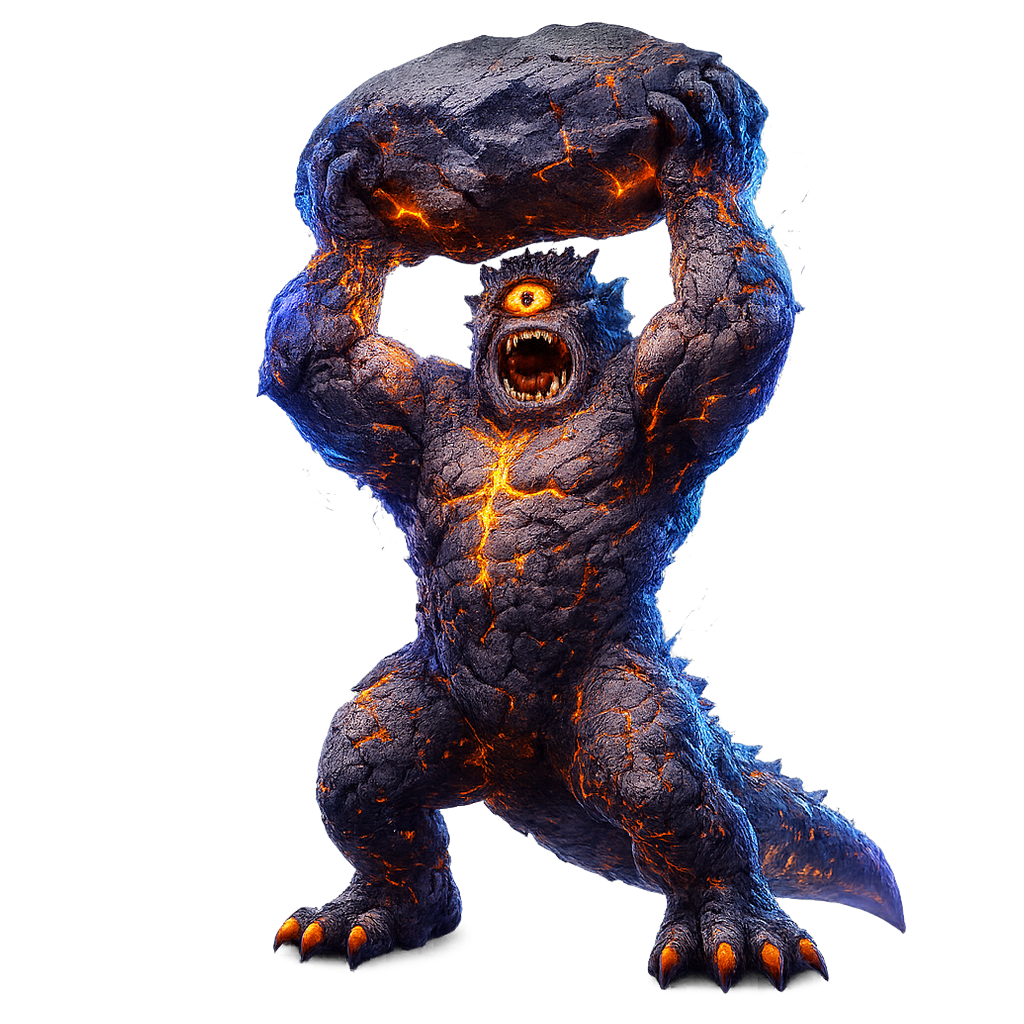
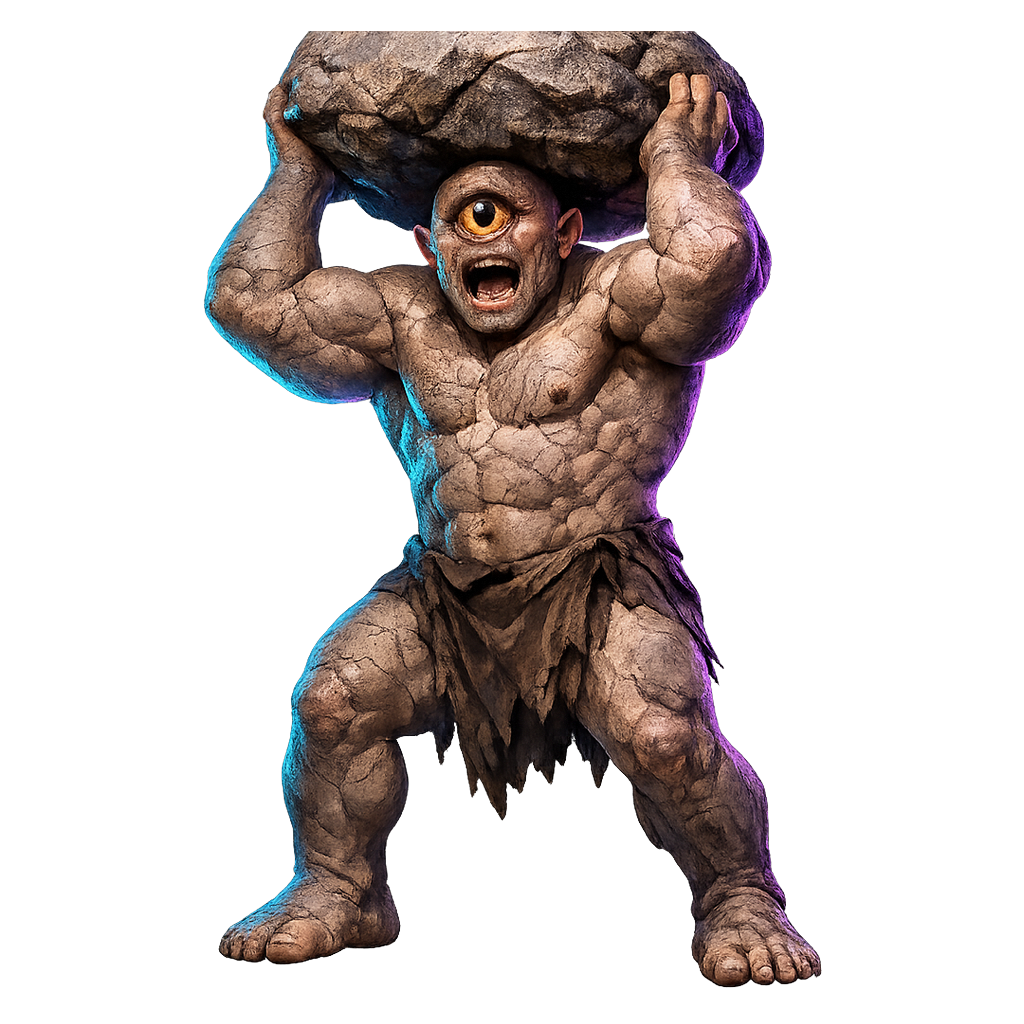
Portrait anatomy QA: all 160 pass zoom-verified sweep
10 defects found and fixed (5-legged stegosaurus confirmed via leg-
region zoom pass, two-headed sarcosuchus, ghost-head dire-wolf and
kitsune, bust-only leviathan/mosasaurus, 4-eyed opabinia, 4-claw
therizinosaurus, serpent-fused unicorn, kaiju cyclops). Escalating
regen loop, no reference images, no slug shipping in a known-fail
state.

diff --git a/scripts/qa_portraits.py b/scripts/qa_portraits.py
@@ -1,0 +1,154 @@
+#!/usr/bin/env python3
+"""Portrait QA regeneration pass (2026-08-08).
+
+Same pattern as fix_portraits.py: PORTRAIT_STYLE + the creature's visual_hint +
+an explicit anatomical spec that names exact counts. NEVER passes a reference
+image — the shared dragon style-reference is what bled dragon anatomy into
+several earlier renders.
+
+Usage:
+    python scripts/qa_portraits.py 1 stegosaurus therizinosaurus ...
+    python scripts/qa_portraits.py 2 stegosaurus            # escalated wording
+    python scripts/qa_portraits.py 3 --raw-only stegosaurus # render, don't ship
+
+Attempt >= 2 appends ESCALATIONS[slug][attempt], which names the defect the
+previous attempt actually had.
+"""
+import concurrent.futures as cf
+import json
+import sys
+import time
+from pathlib import Path
+
+sys.path.insert(0, str(Path(__file__).parent))
+from assetlib import PORTRAIT_STYLE, ROOT, finalize, generate
+
+CREATURES = {x["slug"]: x for x in
+             json.loads((ROOT / "data" / "source_creatures.json").read_text())}
+
+FRAME = (" The complete creature — head, body, every limb and the whole tail — "
+         "is fully inside the frame with generous empty margin on all four "
+         "sides; nothing is cropped, cut off, or touching any edge. Nothing "
+         "else is in the picture: no second animal, no background creature, no "
+         "silhouettes, no ghost shapes, no props fused to the body. "
+         "Any open mouth shows teeth and a tongue inside, never a hollow void. "
+         "Transparent background.")
+
+REQS = {
+    "stegosaurus":
+        "Count the legs carefully: EXACTLY FOUR legs and no more — two short "
+        "front legs under the shoulders and two tall back legs under the hips. "
+        "There is no fifth leg and nothing leg-like under the middle of the "
+        "belly. Exactly ONE head, ONE neck and ONE tail; the tail ends in four "
+        "thagomizer spikes. Two alternating rows of broad diamond back plates.",
+    "therizinosaurus":
+        "Each hand bears EXACTLY THREE enormous scythe-like claws — three on "
+        "the left hand and three on the right hand, six claws in total across "
+        "the whole animal. Do not draw a fourth claw on either hand. "
+        "Pot-bellied shaggy feathered dinosaur, long neck, small beaked head, "
+        "exactly two legs and one tail.",
+    "sarcosuchus":
+        "EXACTLY ONE head on one neck. A single armoured crocodile skull with "
+        "one pair of eyes and one pair of jaws — there is no second head, no "
+        "extra snout and no smaller crocodile anywhere in the picture. Four "
+        "legs and one long armoured tail, whole body on a sunlit sandy bank.",
+    "opabinia":
+        "EXACTLY FIVE stalked eyes standing up on top of the head — count them: "
+        "five mushroom-shaped eye stalks, not four. One long flexible clawed "
+        "proboscis reaching forward from the front of the head. Small "
+        "amber-and-teal segmented swimmer with a row of side flaps and a "
+        "fan-shaped tail, shown whole from the side.",
+    "cyclops":
+        "A giant HUMANOID: bare sun-cracked grey-brown human-like skin, two "
+        "arms, two legs, a single large amber eye in the middle of the "
+        "forehead. Absolutely NO TAIL of any kind, no scales, no reptile or "
+        "lizard features, no lava, no fire, no fins, no spines. He is a "
+        "muscular one-eyed man-shaped giant hefting a boulder, not a monster "
+        "or a kaiju.",
+    "dire-wolf":
+        "ONE single wolf alone. Exactly one head, four legs and one bushy "
+        "tail. There are NO other wolves — no pack, no companions, no dark "
+        "shapes, silhouettes or ghost heads behind or around it. Smoky "
+        "grey-brown coat with a heavy ruff, breath steaming.",
+    "kitsune":
+        "ONE snow-white fox with EXACTLY ONE HEAD and nine tails fanned behind "
+        "it. There are absolutely NO extra fox heads, no spirit foxes, no "
+        "ghostly duplicates and no floating faces anywhere in the picture — "
+        "one animal only. Four legs. Standing side-on in full view, the nine "
+        "pale-blue glowing tails spread wide behind it.",
+    "unicorn":
+        "A pearl-white horse with four legs, one flowing tail, one flowing "
+        "mane and a single iridescent spiral horn. Nothing else is attached to "
+        "it or near it: no serpent, no dragon, no vines, no green scaled "
+        "shape, no creature coiled around its legs. Clean simple hooves.",
+    "leviathan":
+        "Show the WHOLE animal from snout to tail tip at a distance, small in "
+        "the frame — not a close-up bust. A colossal barnacled blue-black "
+        "plated sea beast with a complete visible body: blunt whale-like head, "
+        "long ridged spine, two broad flippers and a full tail that ends in a "
+        "clear tail fluke. It is a giant sea creature, NOT a dragon: no horns, "
+        "no wings, no dragon spikes, no long fanged reptile snout. The entire "
+        "silhouette is solid and readable; no part of it dissolves into water "
+        "or spray.",
+    "mosasaurus":
+        "Show the WHOLE animal side-on from snout to tail tip, small in the "
+        "frame — not a close-up head. A complete marine reptile: long "
+        "crocodile-like jaws, streamlined body, four paddle flippers and a "
+        "full tail ending in a two-lobed tail fin. Deep indigo back fading to "
+        "a silver belly. The whole body is solid and opaque; nothing fades "
+        "out, dissolves or disappears into water.",
+}
+
+ESCALATIONS = {  # {slug: {attempt: "..."}} — names the defect the last try had
+    "opabinia": {
+        2: "The previous attempt drew only FOUR eye stalks. That is wrong. "
+           "Count them out as you draw: one, two, three, four, FIVE — five "
+           "separate ball-tipped eye stalks rising in a row from the top of "
+           "the head, so a viewer can count five of them.",
+        3: "Two previous attempts drew only four eye stalks. Draw FIVE eye "
+           "stalks: a central one flanked by two on the left and two on the "
+           "right. Five in total, clearly separated, none hidden or merged.",
+    },
+}
+
+
+def build_prompt(slug: str, attempt: int) -> str:
+    c = CREATURES[slug]
+    esc = ESCALATIONS.get(slug, {}).get(attempt, "")
+    return (PORTRAIT_STYLE
+            + "Creature: " + c["name"] + ". " + c["visual_hint"] + ". "
+            + "CRITICAL anatomical requirements: " + REQS[slug] + " "
+            + (esc + " " if esc else "")
+            + FRAME)
+
+
+def run(slug: str, attempt: int, ship: bool) -> str:
+    prompt = build_prompt(slug, attempt)
+    p = generate(prompt, f"part_{slug}_qa{attempt}", size="1024x1024",
+                 transparent=True)
+    if ship:
+        finalize(p, f"parts/{slug}", 1024, 1024, margin=0.06)
+        return f"{slug} (shipped, attempt {attempt})"
+    return f"{slug} (raw only, attempt {attempt}) -> {p}"
+
+
+def main() -> int:
+    args = [a for a in sys.argv[1:]]
+    ship = "--raw-only" not in args
+    args = [a for a in args if a != "--raw-only"]
+    attempt = int(args[0])
+    slugs = args[1:] or sorted(REQS)
+    t0 = time.time()
+    with cf.ThreadPoolExecutor(max_workers=5) as ex:
+        futs = {ex.submit(run, s, attempt, ship): s for s in slugs}
+        for f in cf.as_completed(futs):
+            try:
+                print("OK  ", f.result())
+            except Exception as e:  # noqa: BLE001
+                print("FAIL", futs[f], str(e)[:200])
+    print(f"done in {time.time() - t0:.0f}s")
+    return 0
+
+
+if __name__ == "__main__":
+    raise SystemExit(main())
